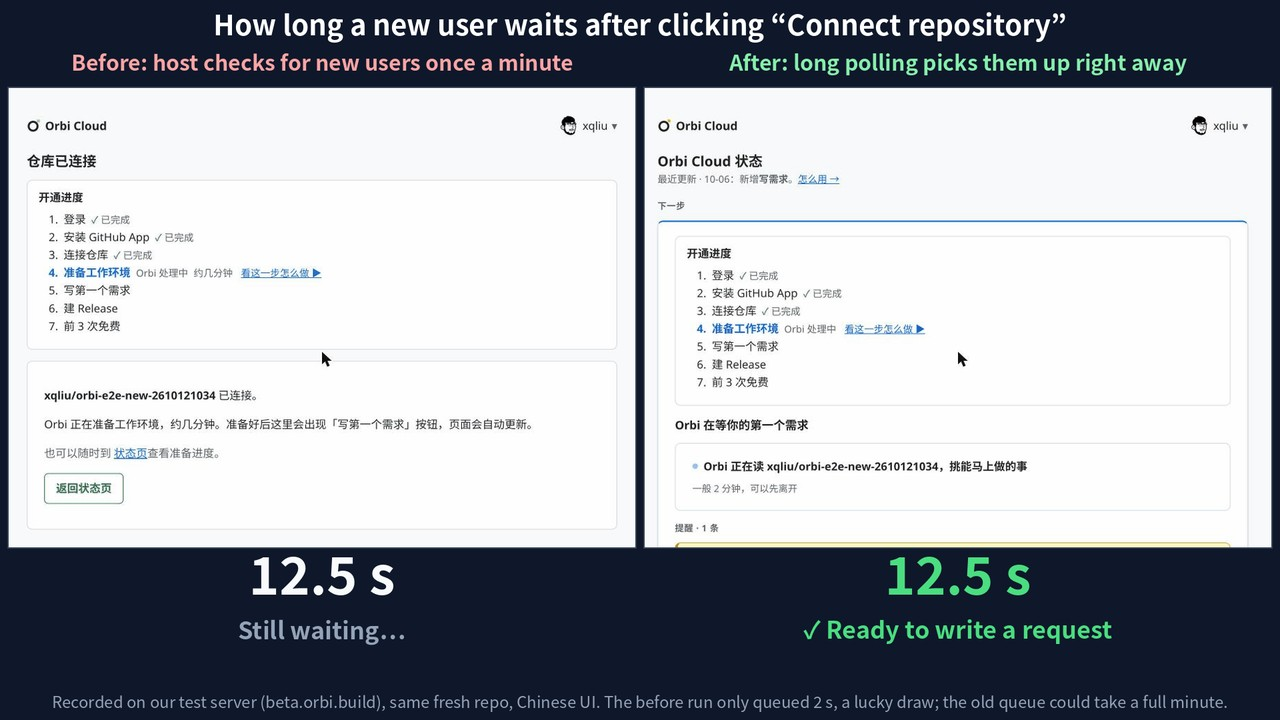
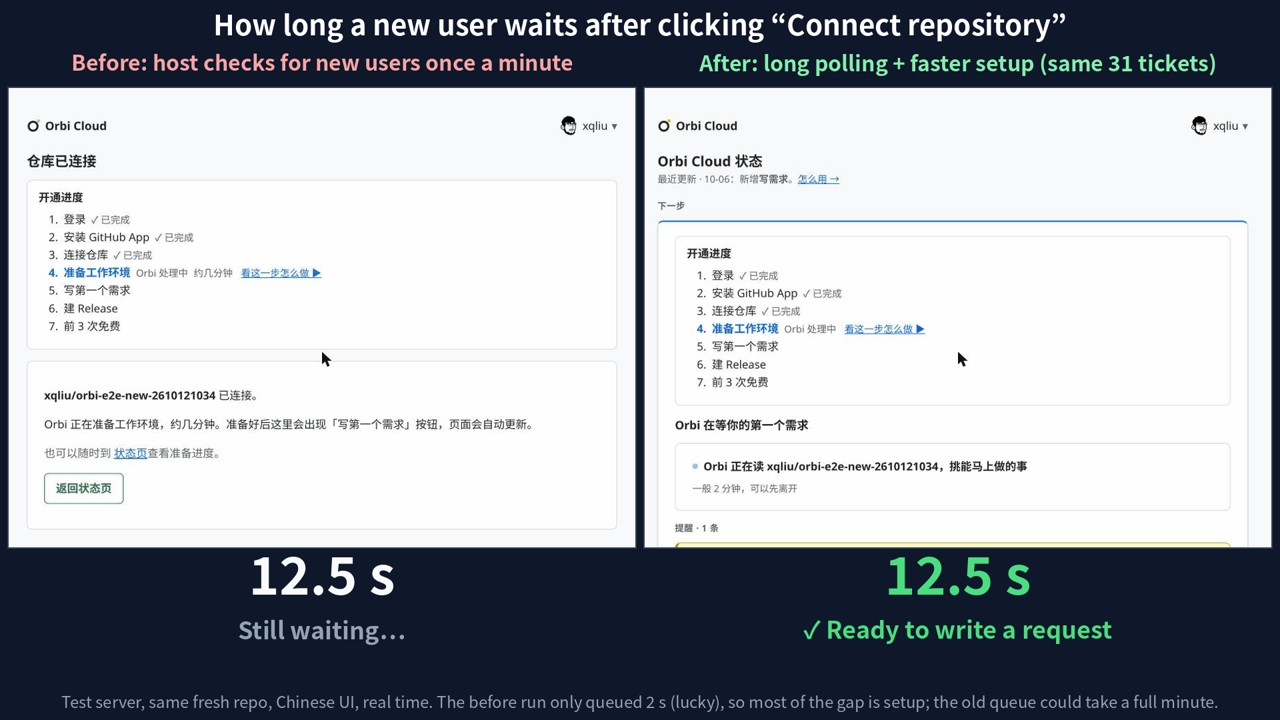
博文：换上标注更正后的对比视频，图注写清起止点和差距来源

Changed region(s): [[0.0312, 0.9472, 0.9688, 1.0], [0.5312, 0.0611, 0.9688, 0.1222]]

diff --git a/content/blog/long-polling-new-user-wait.md b/content/blog/long-polling-new-user-wait.md
@@ -7,11 +7,11 @@ author: Lawrence Liu
 image: /img/blog-longpoll-card.png
 mirror: long-polling-new-user-wait
 video_name: How long a new user waits: ~30 s before, ~12 s after | Orbi Cloud long polling
-video_description: Left, the old version where the host checked for new users once a minute; right, long polling, where a new request is picked up as soon as it arrives. Same fresh repository on our test server, played back in real time, about 30 s versus about 12 s.
+video_description: Left, the old version where the host checked for new users once a minute; right, the version after the same 31 tickets, where long polling removed the queue and setup and page refresh got faster too. Same fresh repository on our test server, played back in real time, about 30 s versus about 12 s.
 video_thumbnail: /img/blog-longpoll-video-en.jpg
 video_upload_date: 2026-10-12
 video_duration: PT39S
-video_embed_url: https://www.youtube.com/embed/VN2szfN9Nn4
+video_embed_url: https://www.youtube.com/embed/eGTSUMYc6jk
 ---
 
 A new user connected a repository to Orbi Cloud. The page said "preparing your workspace". They waited a while, then left.
@@ -20,9 +20,9 @@ When they left, the workspace was already ready. The page only refreshed every 1
 
 I started digging that night. Claude Code, the AI assistant I plan work with, told me preparing a workspace took "about five minutes". I said five minutes is long enough to install an operating system.
 
-It turned out to be about a minute on a normal day and over two minutes on a bad one. One night later, on our test server, it was about 10 seconds. The fix was 31 tickets, all written, reviewed and merged by Orbi itself (Orbi is what I'm building: a lights-out software factory that takes an Issue to a release without anyone watching). Along the way we hit a bug that review had warned us about, which we'd decided wasn't worth fixing. It bit us the same evening.
+It turned out to be about a minute on a normal day and over two minutes on a bad one. One night later, on our test server, it was about 10 seconds. The fix was 31 tickets; Orbi wrote the code for every one, reviewed it and merged it (Orbi is what I'm building: a lights-out software factory that takes an Issue to a release without anyone watching). Along the way we hit a bug that review had warned us about, which we'd decided wasn't worth fixing. It bit us the same evening.
 
-<figure class="post-media"><iframe src="https://www.youtube.com/embed/VN2szfN9Nn4" title="How long a new user waits: ~30 s before, ~12 s after" loading="lazy" allow="accelerometer; autoplay; clipboard-write; encrypted-media; gyroscope; picture-in-picture" allowfullscreen></iframe><figcaption>Old version on the left, long polling on the right, same fresh repository, played back in real time: about 30 seconds versus about 12. Recorded on our test server, which has few users, so the old queue there was short; in production it used to take a minute or two.</figcaption></figure>
+<figure class="post-media"><iframe src="https://www.youtube.com/embed/eGTSUMYc6jk" title="How long a new user waits: ~30 s before, ~12 s after" loading="lazy" allow="accelerometer; autoplay; clipboard-write; encrypted-media; gyroscope; picture-in-picture" allowfullscreen></iframe><figcaption>Old version on the left; on the right, the version after the same 31 tickets. Same fresh repository on our test server, played back in real time: from clicking “Connect repository” to being able to write a first request, about 30 seconds versus about 12. The old run got lucky and queued for only 2 seconds, so most of the gap is setup time; in production the whole wait used to be a minute or two.</figcaption></figure>
 
 Two pieces matter for the rest of the story. Cloud is our website, where users sign in and connect repositories. The host is a machine of ours that runs a sandbox for each connected repository; for security it can only connect outward, so Cloud can never call it directly.
 

diff --git a/content/blog/zh/long-polling-new-user-wait.md b/content/blog/zh/long-polling-new-user-wait.md
@@ -1,17 +1,17 @@
 ---
 title: 新用户干等从 2 分钟压到 10 秒：长轮询，没加一台机器
 date: 2026-10-12
-summary: 有个用户在环境已经准备好之后走了，因为页面还没告诉他。我们改用长轮询消掉排队，再抠掉几处准备时间，测试环境上从一两分钟压到了 10 秒左右，机器一台没加。
+summary: 有个用户在环境已经准备好之后走了，因为页面还没告诉他。我们改用长轮询消掉排队，再抠掉几处准备时间：以前要等一两分钟，现在测试环境上 10 秒左右，机器一台没加。
 lang: zh
 author: Lawrence Liu
 image: /img/blog-longpoll-card.png
 mirror: long-polling-new-user-wait
 video_name: 新用户等多久：改前约 30 秒，改后约 12 秒｜Orbi Cloud 长轮询实录
-video_description: 左边旧版本，主机每分钟才查一次新用户；右边改成长轮询，新请求一来就被接走。同一个全新仓库，测试服实录，按真实秒数播放：约 30 秒对约 12 秒。
+video_description: 左边旧版本，主机每分钟才查一次新用户；右边是同一批 31 张票之后的版本，长轮询消掉排队，准备环境和页面刷新也一起提速。同一个全新仓库，测试服实录，按真实秒数播放：约 30 秒对约 12 秒。
 video_thumbnail: /img/blog-longpoll-video-zh.jpg
 video_upload_date: 2026-10-12
 video_duration: PT39S
-video_embed_url: https://www.youtube.com/embed/sw7JPRO20EI
+video_embed_url: https://www.youtube.com/embed/bN8amYpOo8c
 ---
 
 有个新用户在 Orbi Cloud 上连好了仓库，页面显示「正在准备工作环境」。他等了一会儿，走了。
@@ -22,7 +22,7 @@ video_embed_url: https://www.youtube.com/embed/sw7JPRO20EI
 
 查下来，这一步一般要一分钟左右，慢的时候两分多钟。一夜之后，测试环境上变成了 10 秒左右。改动拆成 31 张票，全是 Orbi 自己写、自己评审、自己合并的（Orbi 是我在做的产品，agent 时代的软件黑灯工厂：从 Issue 到发版，不用人守着）。中间还撞上了一个 bug：审查早就点过名，我们觉得没必要修，当天晚上就撞上了。
 
-<figure class="post-media"><iframe src="https://www.youtube.com/embed/sw7JPRO20EI" title="新用户等多久：改前约 30 秒，改后约 12 秒" loading="lazy" allow="accelerometer; autoplay; clipboard-write; encrypted-media; gyroscope; picture-in-picture" allowfullscreen></iframe><figcaption>左边旧版本，右边长轮询，同一个新仓库，按真实秒数播放：约 30 秒对约 12 秒。这是测试服实录，测试服用户少，旧版排队还算短；生产上以前要一两分钟。</figcaption></figure>
+<figure class="post-media"><iframe src="https://www.youtube.com/embed/bN8amYpOo8c" title="新用户等多久：改前约 30 秒，改后约 12 秒" loading="lazy" allow="accelerometer; autoplay; clipboard-write; encrypted-media; gyroscope; picture-in-picture" allowfullscreen></iframe><figcaption>左边旧版本，右边是同一批 31 张票之后的版本，同一个新仓库在测试服上实录，按真实秒数播放：从点「连接仓库」到能写第一个需求，约 30 秒对约 12 秒。旧版这一遍运气好，只排了 2 秒队，差出来的主要是准备环境的时间；生产上以前整段要一两分钟。</figcaption></figure>
 
 后面会反复出现两样东西：Cloud 是我们的网站，用户在这里登录、连仓库；主机是我们自己的一台机器，给每个连上的仓库建一个沙箱。为了安全，主机只能往外连，Cloud 没法直接叫它。
 
